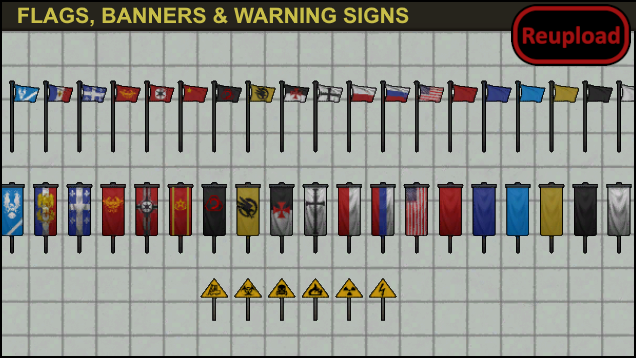
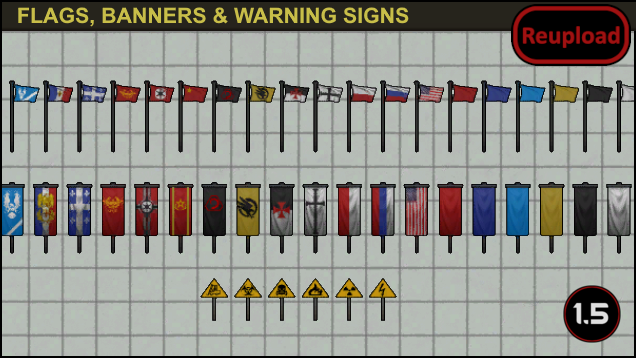
Mod updated for 1.5 and passed autotests

Changed region(s): [[0.8664, 0.7989, 0.9858, 0.9832]]

diff --git a/README.md b/README.md
@@ -37,11 +37,13 @@ They need the carpet research.
 
 -  See if the the error persists if you just have this mod and its requirements active.
 -  If not, try adding your other mods until it happens again.
--  Post your error-log using https://steamcommunity.com/workshop/filedetails/?id=818773962]HugsLib and command Ctrl+F12
+-  Post your error-log using https://steamcommunity.com/workshop/filedetails/?id=818773962]HugsLib or the standalone https://steamcommunity.com/sharedfiles/filedetails/?id=2873415404]Uploader and command Ctrl+F12
 -  For best support, please use the Discord-channel for error-reporting.
 -  Do not report errors by making a discussion-thread, I get no notification of that.
 -  If you have the solution for a problem, please post it to the GitHub repository.
+-  Use https://github.com/RimSort/RimSort/releases/latest]RimSort to sort your mods
 
 
 
+https://steamcommunity.com/sharedfiles/filedetails/changelog/2030264080]![Image](https://img.shields.io/github/v/release/emipa606/FlagsAndBanners?label=latest%20version&style=plastic&color=9f1111&labelColor=black)
 
